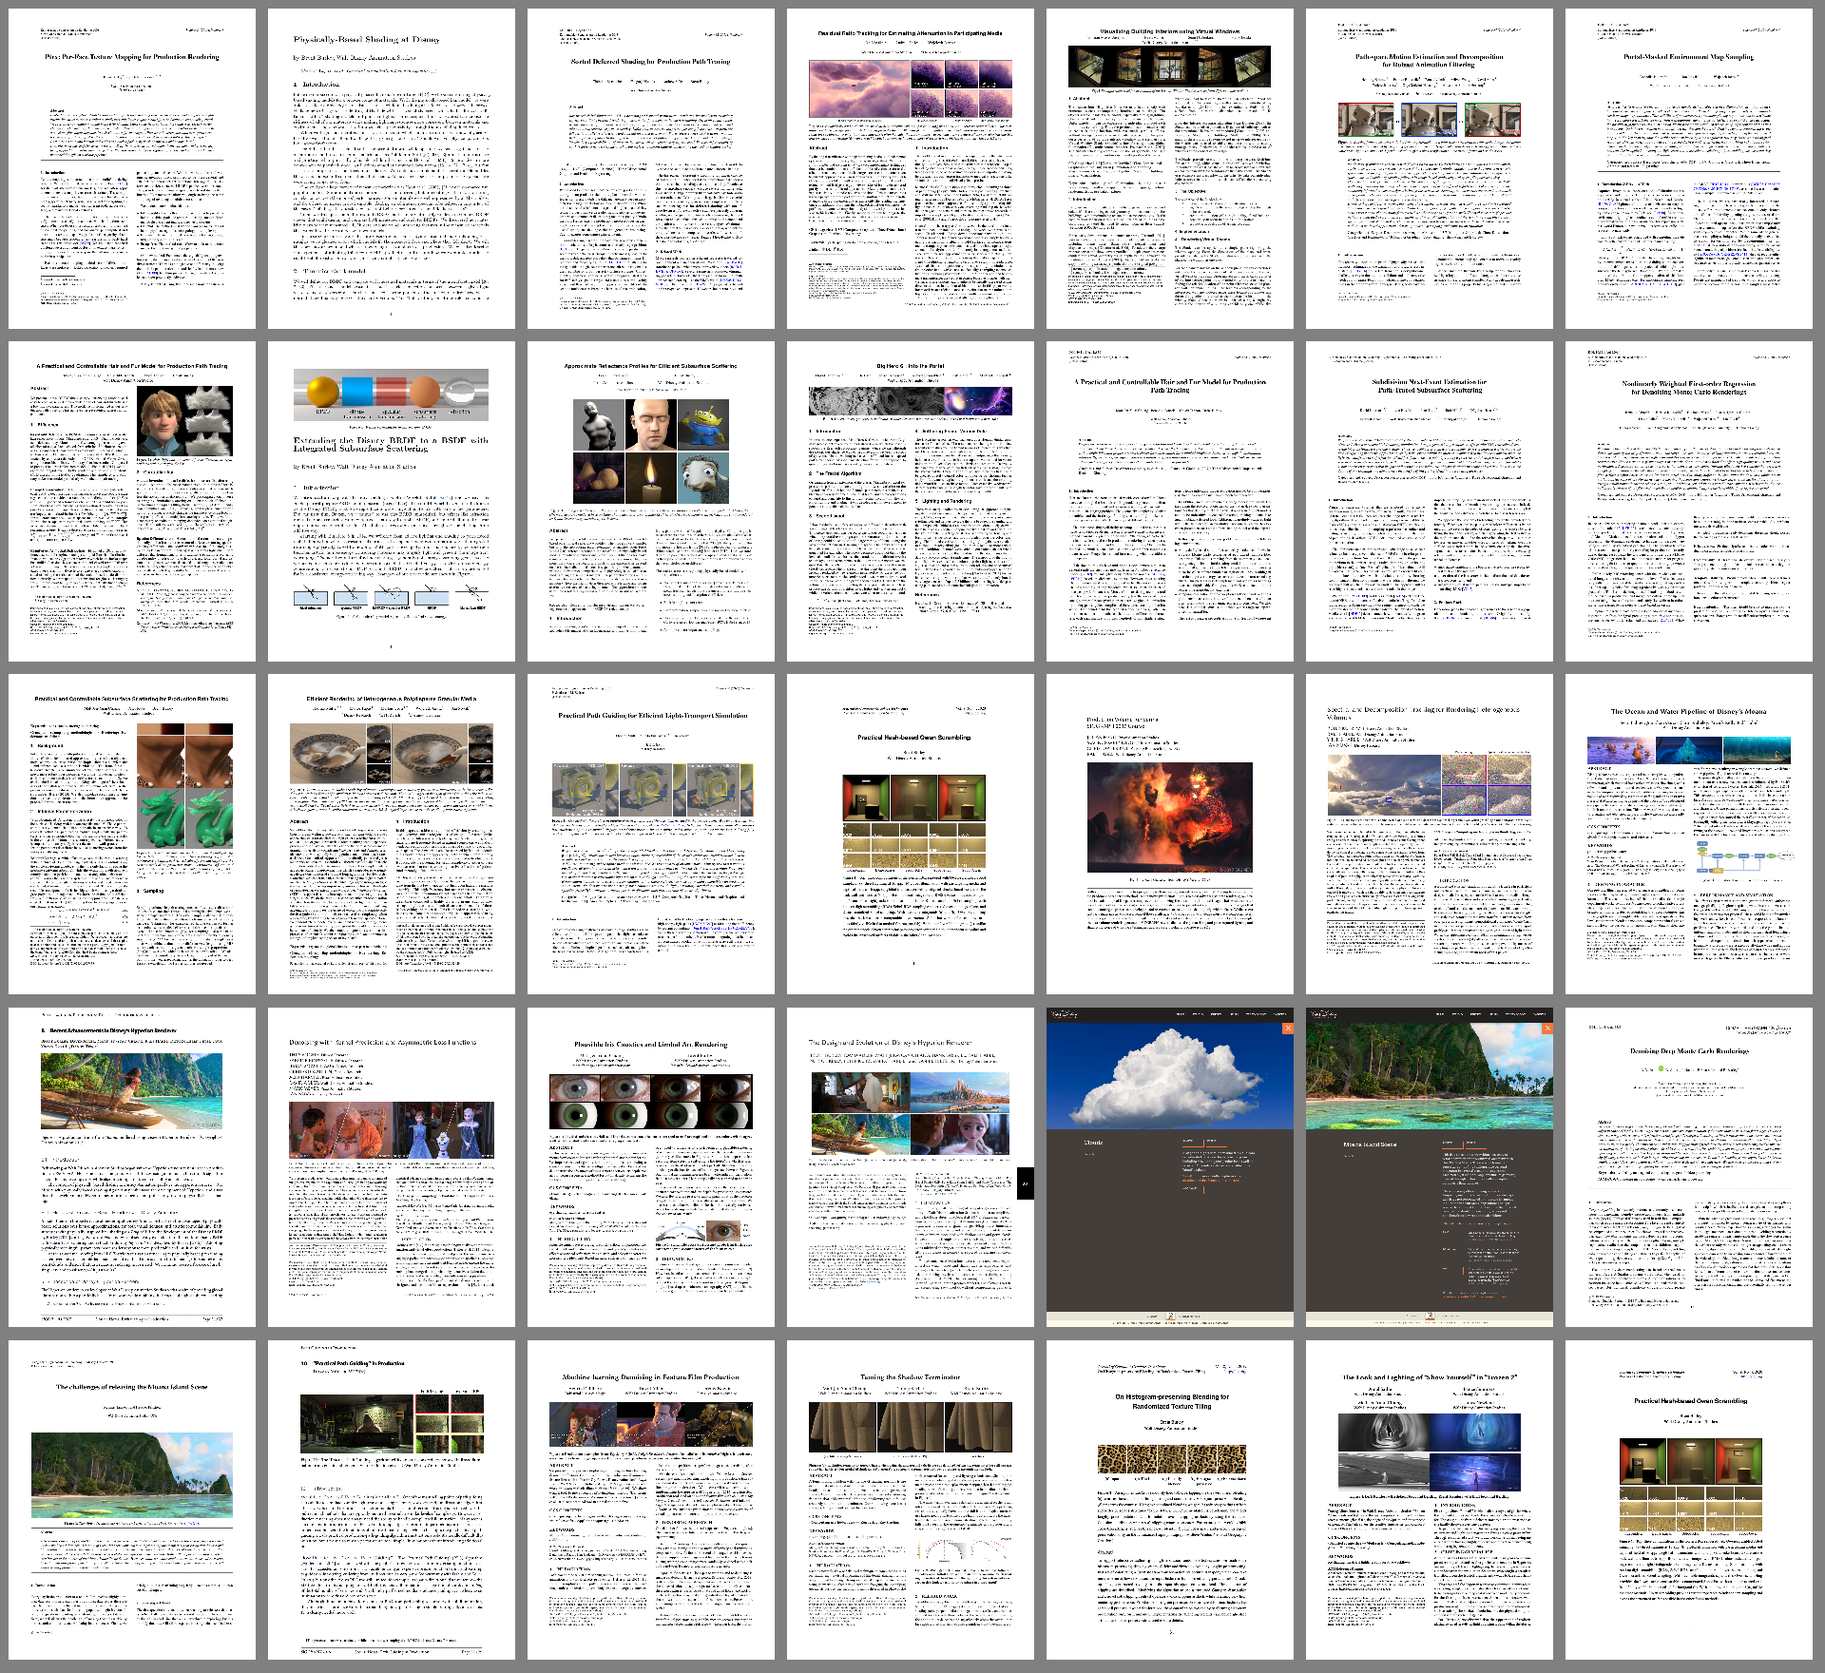
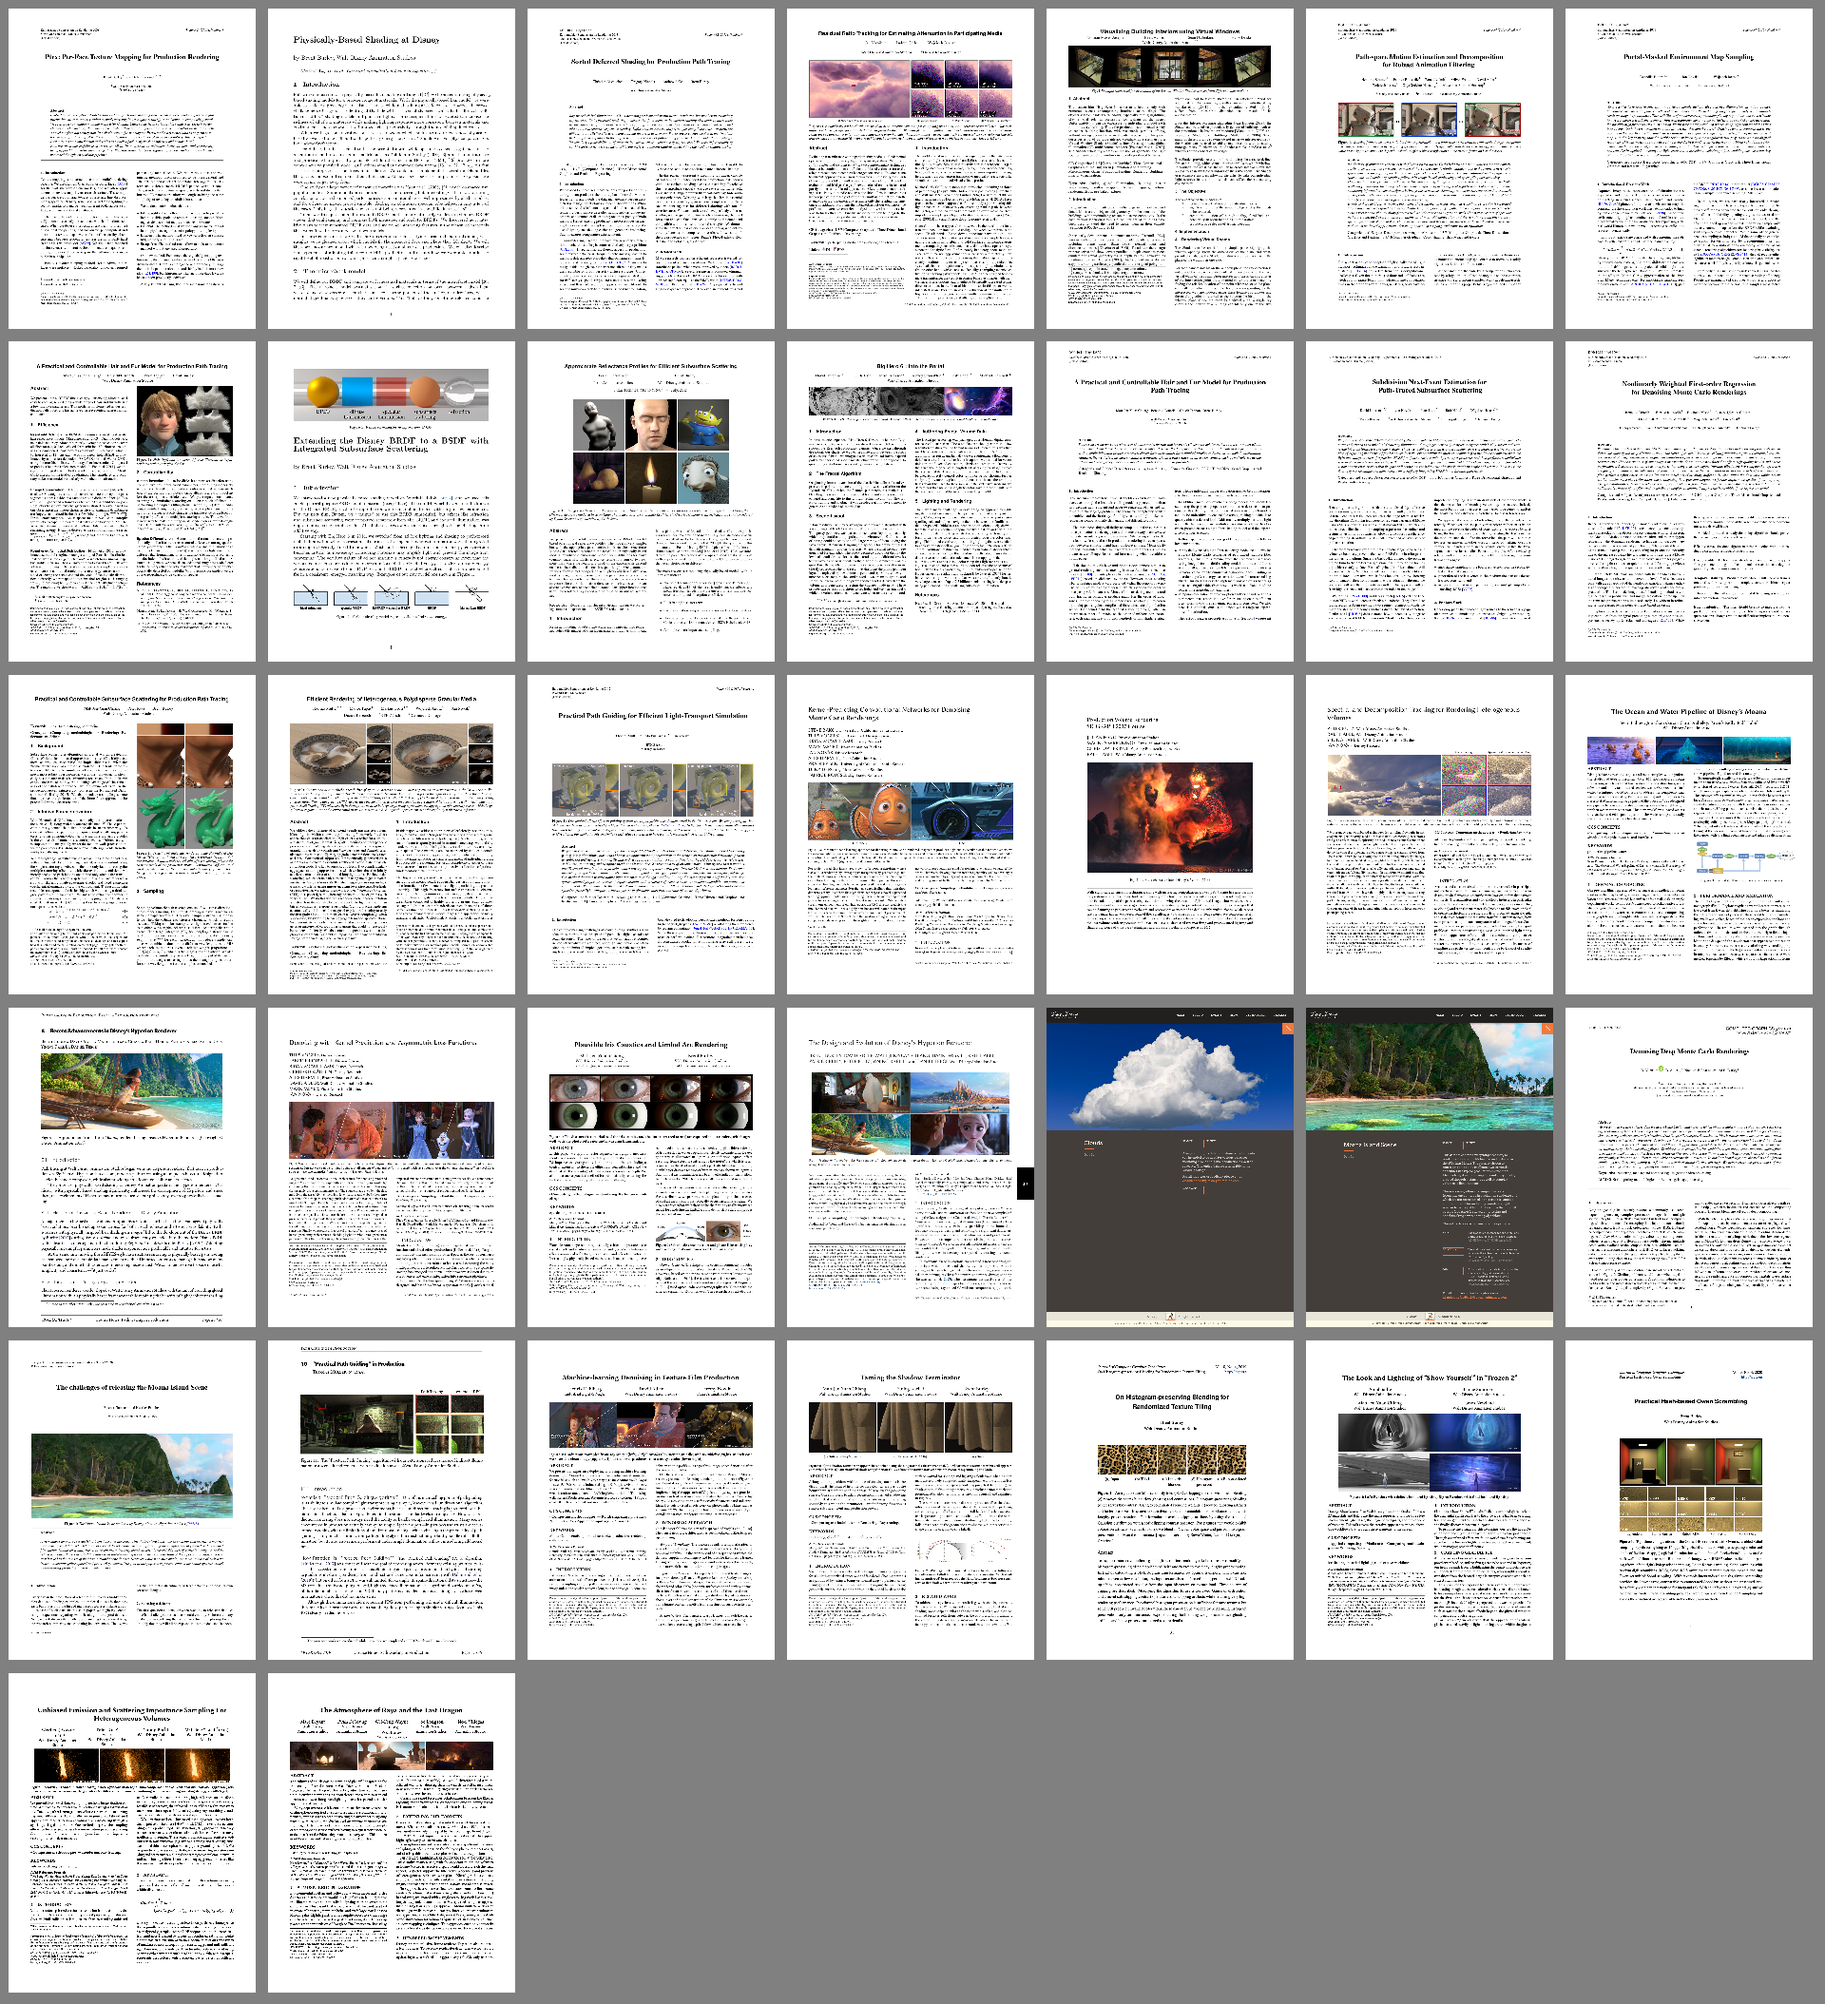
Add two new papers to Hyperion Papers post

diff --git a/_posts/2019-07-30-hyperion-papers.md b/_posts/2019-07-30-hyperion-papers.md
@@ -319,7 +319,7 @@ This post is meant to be a living document; I'll come back and update it down th
 31. **Machine-Learning Denoising in Feature Film Production**
 
     [Henrik Dahlberg](https://henrikdahlberg.github.io), [David Adler](https://www.linkedin.com/in/david-adler-5ab7b21/), and [Jeremy Newlin](https://www.linkedin.com/in/jeremy-newlin-07a87946/). Machine-Learning Denoising in Feature Film Production. In *ACM SIGGRAPH 2019 Talks*, July 2019.
-    
+
     * [Preprint Version](https://drive.google.com/open?id=1CdUC9caWNSShHNvIj4kge7BWQczXWr79)
     * [Official Publisher's Version](https://doi.org/10.1145/3306307.3328150)
 
@@ -328,7 +328,7 @@ This post is meant to be a living document; I'll come back and update it down th
 32. **Taming the Shadow Terminator**
 
     [Matt Jen-Yuan Chiang](http://dl.acm.org/author_page.cfm?id=99658729701&coll=DL&dl=ACM&trk=0), [Yining Karl Li](https://www.yiningkarlli.com), and [Brent Burley](https://www.linkedin.com/in/brent-burley-56972557/). Taming the Shadow Terminator. In *ACM SIGGRAPH 2019 Talks*, August 2019.
-    
+
     * [Preprint Version](https://drive.google.com/open?id=1Yb6GUP3pIuNiH9Xgq2P0L99V3JAQ7emM) (Updated compared to official version)
     * [Official Publisher's Version](https://doi.org/10.1145/3306307.3328172)
     * [Project Page](https://www.yiningkarlli.com/projects/shadowterminator.html)
@@ -351,6 +351,8 @@ This post is meant to be a living document; I'll come back and update it down th
     * [Preprint Version](https://drive.google.com/file/d/1XVyhzCP_RDusyrfrsKlR8hIuq0fs_WJF)
     * [Official Publisher's Version](https://doi.org/10.1145/3388767.3407388)
 
+    Internal project from Disney Animation. This paper describes the process that went into achieving the final look and lighting of the "Show Yourself" sequence in *Frozen 2*, including a new tabulation-based approach implemented in Hyperion to maintain energy conservation in rough dielectric reflection and transmission.
+
 35. **Practical Hash-based Owen Scrambling**
 
     [Brent Burley](https://www.linkedin.com/in/brent-burley-56972557/). Practical Hash-based Owen Scrambling. *Journal of Computer Graphics Techniques*, 9(4), December 2020.
@@ -359,6 +361,24 @@ This post is meant to be a living document; I'll come back and update it down th
     * [Official Publisher's Version](http://www.jcgt.org/published/0009/04/01/)
 
     Internal project from Disney Animation. This paper describes a new version of Owen scrambling for the Sobol sequence that is both simple to implement, efficient to evaluate, and broadly applicable to various problems.
+
+36. **Unbiased Emission and Scattering Importance Sampling For Heterogeneous Volumes**
+
+    [Wei-Feng Wayne Huang](http://rendering-memo.blogspot.com/), [Peter Kutz](https://www.linkedin.com/in/peterkutz/), [Yining Karl Li](https://www.yiningkarlli.com), and [Matt Jen-Yuan Chiang](http://dl.acm.org/author_page.cfm?id=99658729701&coll=DL&dl=ACM&trk=0). Unbiased Emission and Scattering Importance Sampling For Heterogeneous Volumes. In *ACM SIGGRAPH 2021 Talks*, August 2021.
+
+    * [Preprint Version](https://drive.google.com/file/d/1YTBp11HBC-TbrRCu_Aoq42eiFVdxFaYy)
+    * [Official Publisher's Version](https://doi.org/10.1145/3450623.3464644)
+
+    Internal project from Disney Animation. This paper describes a pair of new unbiased distance-sampling methods for production volume path tracing, with a specific focus on sampling emission and scattering. First used on *Raya and the Last Dragon*.
+
+37. **The Atmosphere of Raya and the Last Dragon**
+
+    [Marc Bryant](https://dl.acm.org/author/Bryant,%20Marc), [Ryan DeYoung](https://dl.acm.org/author/DeYoung,%20Ryan), [Wei-Feng Wayne Huang](http://rendering-memo.blogspot.com/), [Joe Longson](https://dl.acm.org/author/Longson,%20Joe), and [Noel Villegas](https://dl.acm.org/author/Villegas,%20Noel). The Atmosphere of Raya and the Last Dragon. In *ACM SIGGRAPH 2021 Talks*, August 2021.
+
+    * [Preprint Version](https://drive.google.com/file/d/1ucK1j2mgJpoFf3hvt3-QyAiZyppkqf6p)
+    * [Official Publisher's Version](https://doi.org/10.1145/3450623.3464676)
+
+    Internal project from Disney Animation. This paper describes the various rendering and workflow improvements that went into rendering atmospheric volumes to produce the highly atmospheric lighting in *Raya and the Last Dragon*.
 
 [![Figure 2: Hyperion logo, modeled by Disney Animation artist Chuck Tappan and rendered in Disney's Hyperion Renderer.]({{site.url}}/content/images/2019/Jul/hyperion_logo.png)]({{site.url}}/content/images/2019/Jul/hyperion_logo.png)
 
